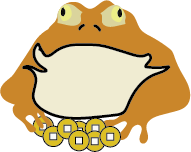
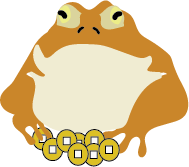
upadate

diff --git a/my_phenakistoscope.js b/my_phenakistoscope.js
@@ -1,35 +1,34 @@
 const SLICE_COUNT = 10;
 
 function setup_pScope(pScope){
-pScope.output_mode(OUTPUT_GIF(1000));
-  // pScope.output_mode(STATIC_FRAME);
-  // pScope.output_mode(ANIMATED_DISK);
-  // pScope.output_mode(ANIMATED_FRAME);
+
+  pScope.output_mode(ANIMATED_DISK);
   pScope.scale_for_screen(true);
   pScope.draw_layer_boundaries(false);
   pScope.draw_slits(false);
   pScope.set_direction(CCW);
   pScope.set_slice_count(SLICE_COUNT);
   pScope.load_image("coin", "png");
-  pScope.load_image("pig", "png");
+  pScope.load_image("bat", "png");
   pScope.load_image_sequence("luckyCat", "png", 4);
+  pScope.load_image_sequence("flog", "png", 2);
 }
 
 function setup_layers(pScope){
 
-  new PLayer(null, '#f28482');  //lets us draw the whole circle background, ignoring the boundaries
+  new PLayer(null, '#1b263b');  //lets us draw the whole circle background, ignoring the boundaries
  
   let outerRing = new PLayer(outsideRing);
   outerRing.mode(RING);
-  outerRing.set_boundary(970,1000);
+  outerRing.set_boundary(950,1000);
  
-  var outerCircle = new PLayer(circles);
-  outerCircle.mode(RING);
-  outerCircle.set_boundary( 0, 950 );
+  var bat = new PLayer(lucky_bat);
+  bat.mode(RING);
+  bat.set_boundary( 0, 950 );
 
-  var piggy = new PLayer(piggy_bank);
-      piggy.mode( RING );
-      piggy.set_boundary( 600, 1000 );
+  var flog = new PLayer(golden_flog);
+      flog.mode( RING );
+      flog.set_boundary( 600, 1000 );
 
 
   var coin2 = new PLayer(coins);
@@ -38,17 +37,15 @@ function setup_layers(pScope){
 
   var cat = new PLayer(lucky_cats);
       // cat.mode( RING );
-       cat.set_boundary( 100, 250 );
+       cat.set_boundary( 100, 200 );
 
    var coin1 = new PLayer(coin);
-  //  layer1.mode( SWIRL(5) );
-  // layer1.set_boundary( 200, 1000 );
 }
 
 
 
 function lucky_cats(x, y, animation, pScope){
-  
+   pScope.fill_background('#fefae0');
     scale(1);
     let xvalue = 0
     pScope.draw_image_from_sequence("luckyCat", xvalue, -250, animation.frame);
@@ -62,32 +59,27 @@ function coin(x,y, animation, pScope){
   pScope.draw_image("coin" , 0, 0);
 }
 
-function piggy_bank(x,y, animation, pScope) {
-  let angleOffset = (360 / SLICE_COUNT) / 2
-  let backgroundArcStart = 270 - angleOffset;
-  let backgroundArcEnd = 270 + angleOffset;
-   fill('#f7ede2');
-   arc(x,y,1400,1400,backgroundArcStart,backgroundArcEnd); // draws "pizza slice" in the background
-  //  fill('#ffb703');
-  //  ellipse(260,900,60,60);
- 
-  scale(1)
+function golden_flog(x,y, animation, pScope) {
+  scale(1);
+  let xvalue = 0
+  pScope.draw_image_from_sequence("flog", xvalue, -680, animation.frame);
 
-  // let yValue = -750 - (animation.wave(1) *200);
+}
+
+function lucky_bat(x,y, animation, pScope){
+  // fill('#ffb703');
+  // let ballSize  = 100 + (animation.wave(1)* 20);
+  // let bouce = 50* animation.wave();
+  //  ellipse(260, 850+bouce ,60); 
+  //  fill('#ffffff');
+  //  rect(245, 835+bouce, 30);
+  scale(1);
+
   let yValue = -750 - (animation.wave(1) *100);
   //console.log(yValue)
   translate(0, yValue) 
   //rotate(180)
-  pScope.draw_image("pig", 0, 0);
-}
-
-function circles(x,y, animation, pScope){
-  fill('#ffb703');
-  let ballSize  = 100 + (animation.wave(1)* 20);
-  let bouce = 50* animation.wave();
-   ellipse(260, 850+bouce ,60); 
-   fill('#ffffff');
-   rect(245, 835+bouce, 30);
+  pScope.draw_image("bat", 245, 0);
 }
 
 function coins(x,y, animation, pScope){
@@ -100,6 +92,6 @@ function coins(x,y, animation, pScope){
 }
 
 function outsideRing (x,y,animation,pScope){
-  // pScope.fill_background(249, 248,110, 255);
-  pScope.fill_background('#f6bd60');
+  
+  pScope.fill_background('#e63946');
 }
